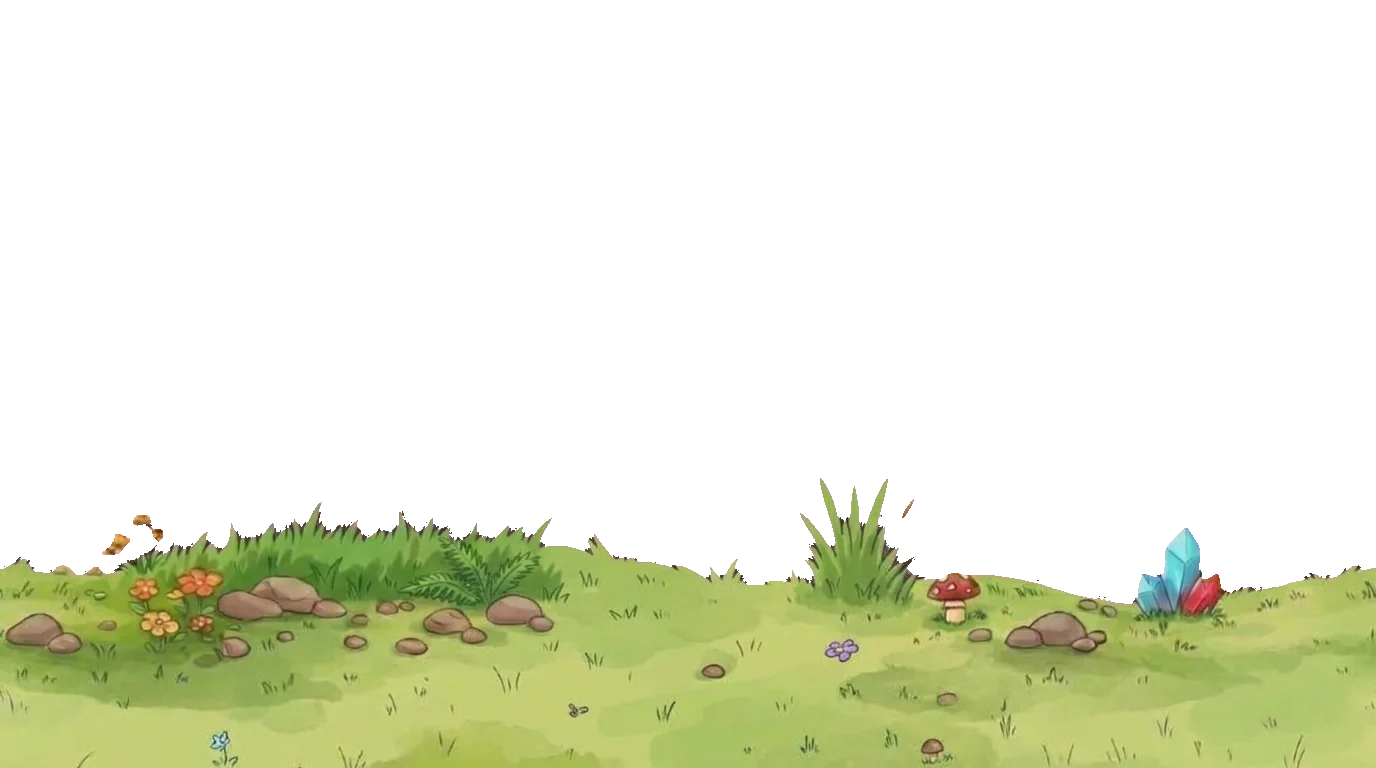
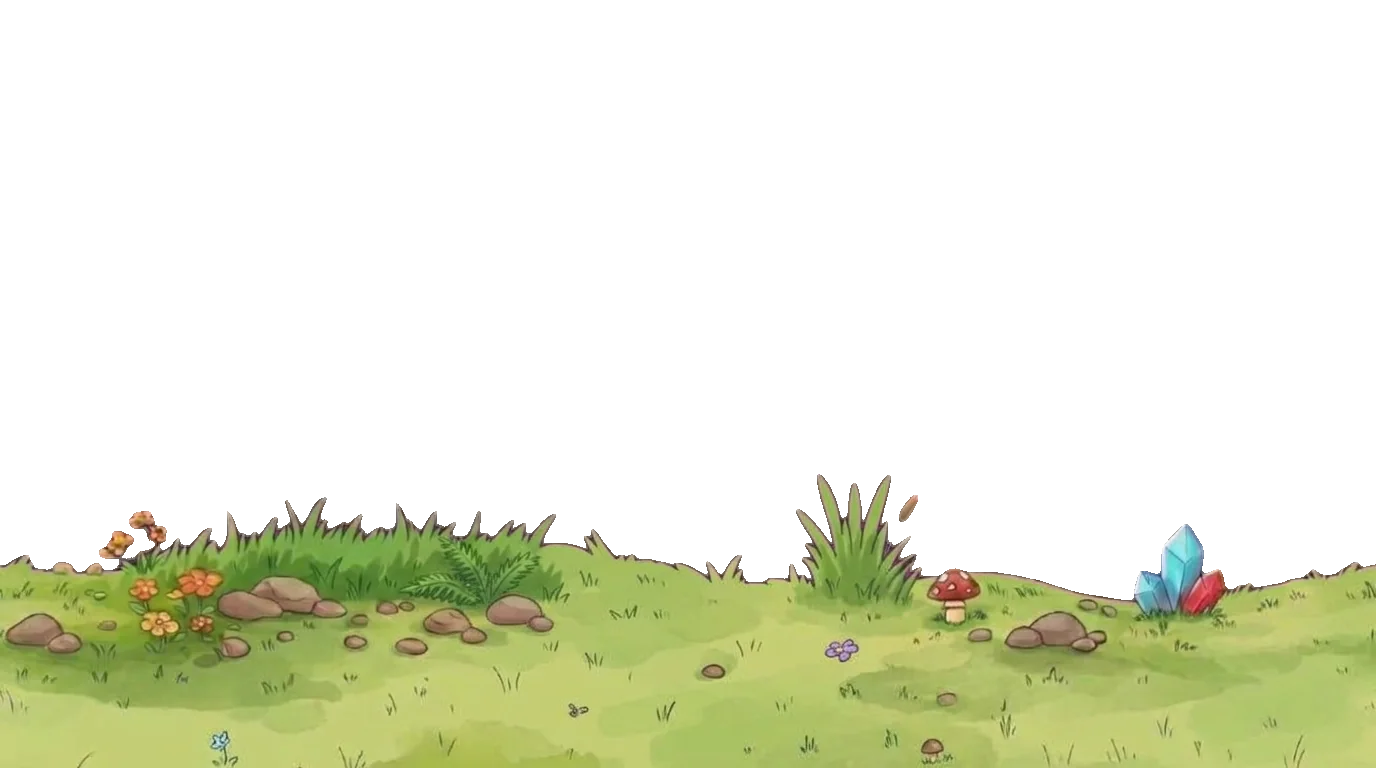
fix(valley): the torch tips only once back at Tapko's hand; near band with the usual keying
Claude-Session: https://claude.ai/code/session_01MAZwqVJqrTUDA5csgByiYr

diff --git a/src/game/modes/dragons.ts b/src/game/modes/dragons.ts
@@ -332,11 +332,10 @@ const PIT_GAP = 95;
 const TORCH_FLAME = 34;
 /** A warm glow round the torch's top, so it stands out from the background: unlit and lit. */
 const TORCH_GLOW = [0.55, 0.85];
-/** Up and down of a flame's soft arcs; seconds the torch holds a caught flame before it tips, until it reaches the fire, and until it stands up again. */
+/** Up and down of a flame's soft arcs; seconds the torch holds a caught flame before it goes to tip, and stays over the fire before it stands up again. */
 const ARC = 36;
 const HOLD = 0.3;
 const REACH = 0.25;
-const DIP = 0.6;
 /** Sparks when the torch catches a flame and when it hands it to the fire. */
 const TORCH_SPARKS = 18;
 const FIRE_SPARKS = 22;
@@ -393,7 +392,7 @@ export class FlamesMode extends ApproachMode {
     const by = L.rng.range(150, VH - 170);
     return {
       x, y: by, by, vx: this.speedFor(word, x), vy: 0, rot: 0, vr: 0, age: 0, state: 'come', fade: 0, sprite: FLAMES[k], size,
-      flip: L.rng.chance(0.5), phase: L.rng.range(0, 6), out: false, hold: -1, lf: 0, fed: false, saveY: by, saveDist: 0, saveFull: 1, shrink: 1, saveFrom: by,
+      flip: L.rng.chance(0.5), phase: L.rng.range(0, 6), out: false, hold: -1, lf: 0, fed: false, fedAt: 0, handed: false, saveY: by, saveDist: 0, saveFull: 1, shrink: 1, saveFrom: by,
     };
   }
 
@@ -410,7 +409,7 @@ export class FlamesMode extends ApproachMode {
     for (const tg of L.core.targets) {
       const m = tg.data as Mover;
       if (m.state === 'leave' && m.hold < 0 && (!aim || m.x < aim.x)) aim = m;
-      if (m.hold >= HOLD && m.hold < HOLD + DIP) dip = true;
+      if (m.hold >= HOLD && !m.handed) dip = true;
       else if (m.hold >= 0 && m.hold < HOLD) holding = true;
     }
     const tc = this.torch;
@@ -419,7 +418,8 @@ export class FlamesMode extends ApproachMode {
       const k = aim.saveDist > 0 ? Math.min(1, Math.max(0, 1 - (aim.x - tc.catchPoint()[0]) / aim.saveDist)) : 1;
       tc.aimY = aim.saveFrom + (aim.saveY - aim.saveFrom) * ease.inOutQuad(k);
     } else if (!holding) tc.aimY = tc.restY;
-    tc.tiltAim = dip ? DIP_TILT : 0;
+    // Back at Tapko's hand first, then it tips over to the fire.
+    tc.tiltAim = dip && Math.abs(tc.y - tc.restY) < 8 ? DIP_TILT : 0;
     tc.update(dt, this.t);
     if (this.torchLit >= 0) this.torchLit += dt;
     this.pit.glow = Math.min(1, this.resolved / this.total);
@@ -474,7 +474,7 @@ export class FlamesMode extends ApproachMode {
     }
     this.save(m, dt);
     // Caught, the flame is in the torch; it is done once the torch stands up again.
-    m.fade = m.hold >= HOLD + DIP ? 1 : 0;
+    m.fade = m.handed && this.torch.tilt < 0.2 ? 1 : 0;
   }
 
   /**
@@ -502,8 +502,11 @@ export class FlamesMode extends ApproachMode {
     m.hold += dt;
     m.x = gx;
     m.y = gy;
-    if (m.hold >= HOLD + REACH && !m.fed) {
+    // Handed over once the torch is over the fire; a moment later it stands up again.
+    if (m.fed && m.hold - m.fedAt >= REACH) m.handed = true;
+    if (!m.fed && this.torch.tilt >= DIP_TILT * 0.85) {
       m.fed = true;
+      m.fedAt = m.hold;
       this.caught++;
       this.pit.litTo = Math.min(1, this.caught / LIGHT_UP);
       this.L.sfx('whoosh');

diff --git a/assets-src/PROMPTS.md b/assets-src/PROMPTS.md
@@ -467,7 +467,7 @@ flat storybook style and no longer apply.
 | `bg-planet-near.jpg` | (the owner's picture, 2026-10-28) a sandy path with pebbles, small crystals and mushrooms along its upper edge, calm grass below | full | done 2026-10-28 (seam by Gemini, tint cleaned, moved down 240 px: the path's middle at 89 % of the stage, where Tapko walks) |
 | `bg-dragons-far.jpg` | a peaceful dragon valley at sunset, warm orange and pink colours in the sky, the sun hidden behind the mountains, soft rounded mountains and a waterfall | full | done 2026-10-23 |
 | `bg-dragons-mid.jpg` | (the owner's picture, redrawn 2026-10-29) grey rocks with moss, a cave with a glowing crystal, a tree with orange blossoms, a big fly agaric on a grassy hill, then a wide calm meadow | full | done 2026-10-29 (seam by Gemini, moved down 224 px: its top at 55 % from the bottom) |
-| `bg-dragons-near.jpg` | (the owner's picture with the owner's own seam, 2026-10-29) green grass tufts, pebbles, flowers, a fern, a small fly agaric and a blue and red crystal, then calm grass | full | done 2026-10-29 (key tint above 100 made pure key, `defringe.mjs` 8 passes, then two passes taking light or pinkish rim pixels next to the key; moved down 405 px: its top at 27 % from the bottom) |
+| `bg-dragons-near.jpg` | (the owner's picture with the owner's own seam, 2026-10-29) green grass tufts, pebbles, flowers, a fern, a small fly agaric and a blue and red crystal, then calm grass | full | done 2026-10-29 (the usual keying only: a firmer cleanup ate the grass tips; moved down 405 px: its top at 27 % from the bottom) |
 | `bg-egg-far.jpg` | a bright morning valley with a long gentle grassy slope going down from left to right, a few trees and a blue river far away | full | done 2026-10-23 |
 | `bg-egg-mid.jpg` | a bush with yellow flowers, a leaning tree, a mossy boulder, a haystack, a pine, a bush with pink flowers, a signpost with empty boards and a rocky outcrop with ferns | 50 % | done 2026-10-23 |
 | `bg-egg-near.jpg` | only plants and small things: grass, yellow flowers, a pink wild rose, foxtail, a fern, a broken spotted eggshell, daisies, a mushroom and a thistle; no big rocks | 20 % | done 2026-10-23 |
